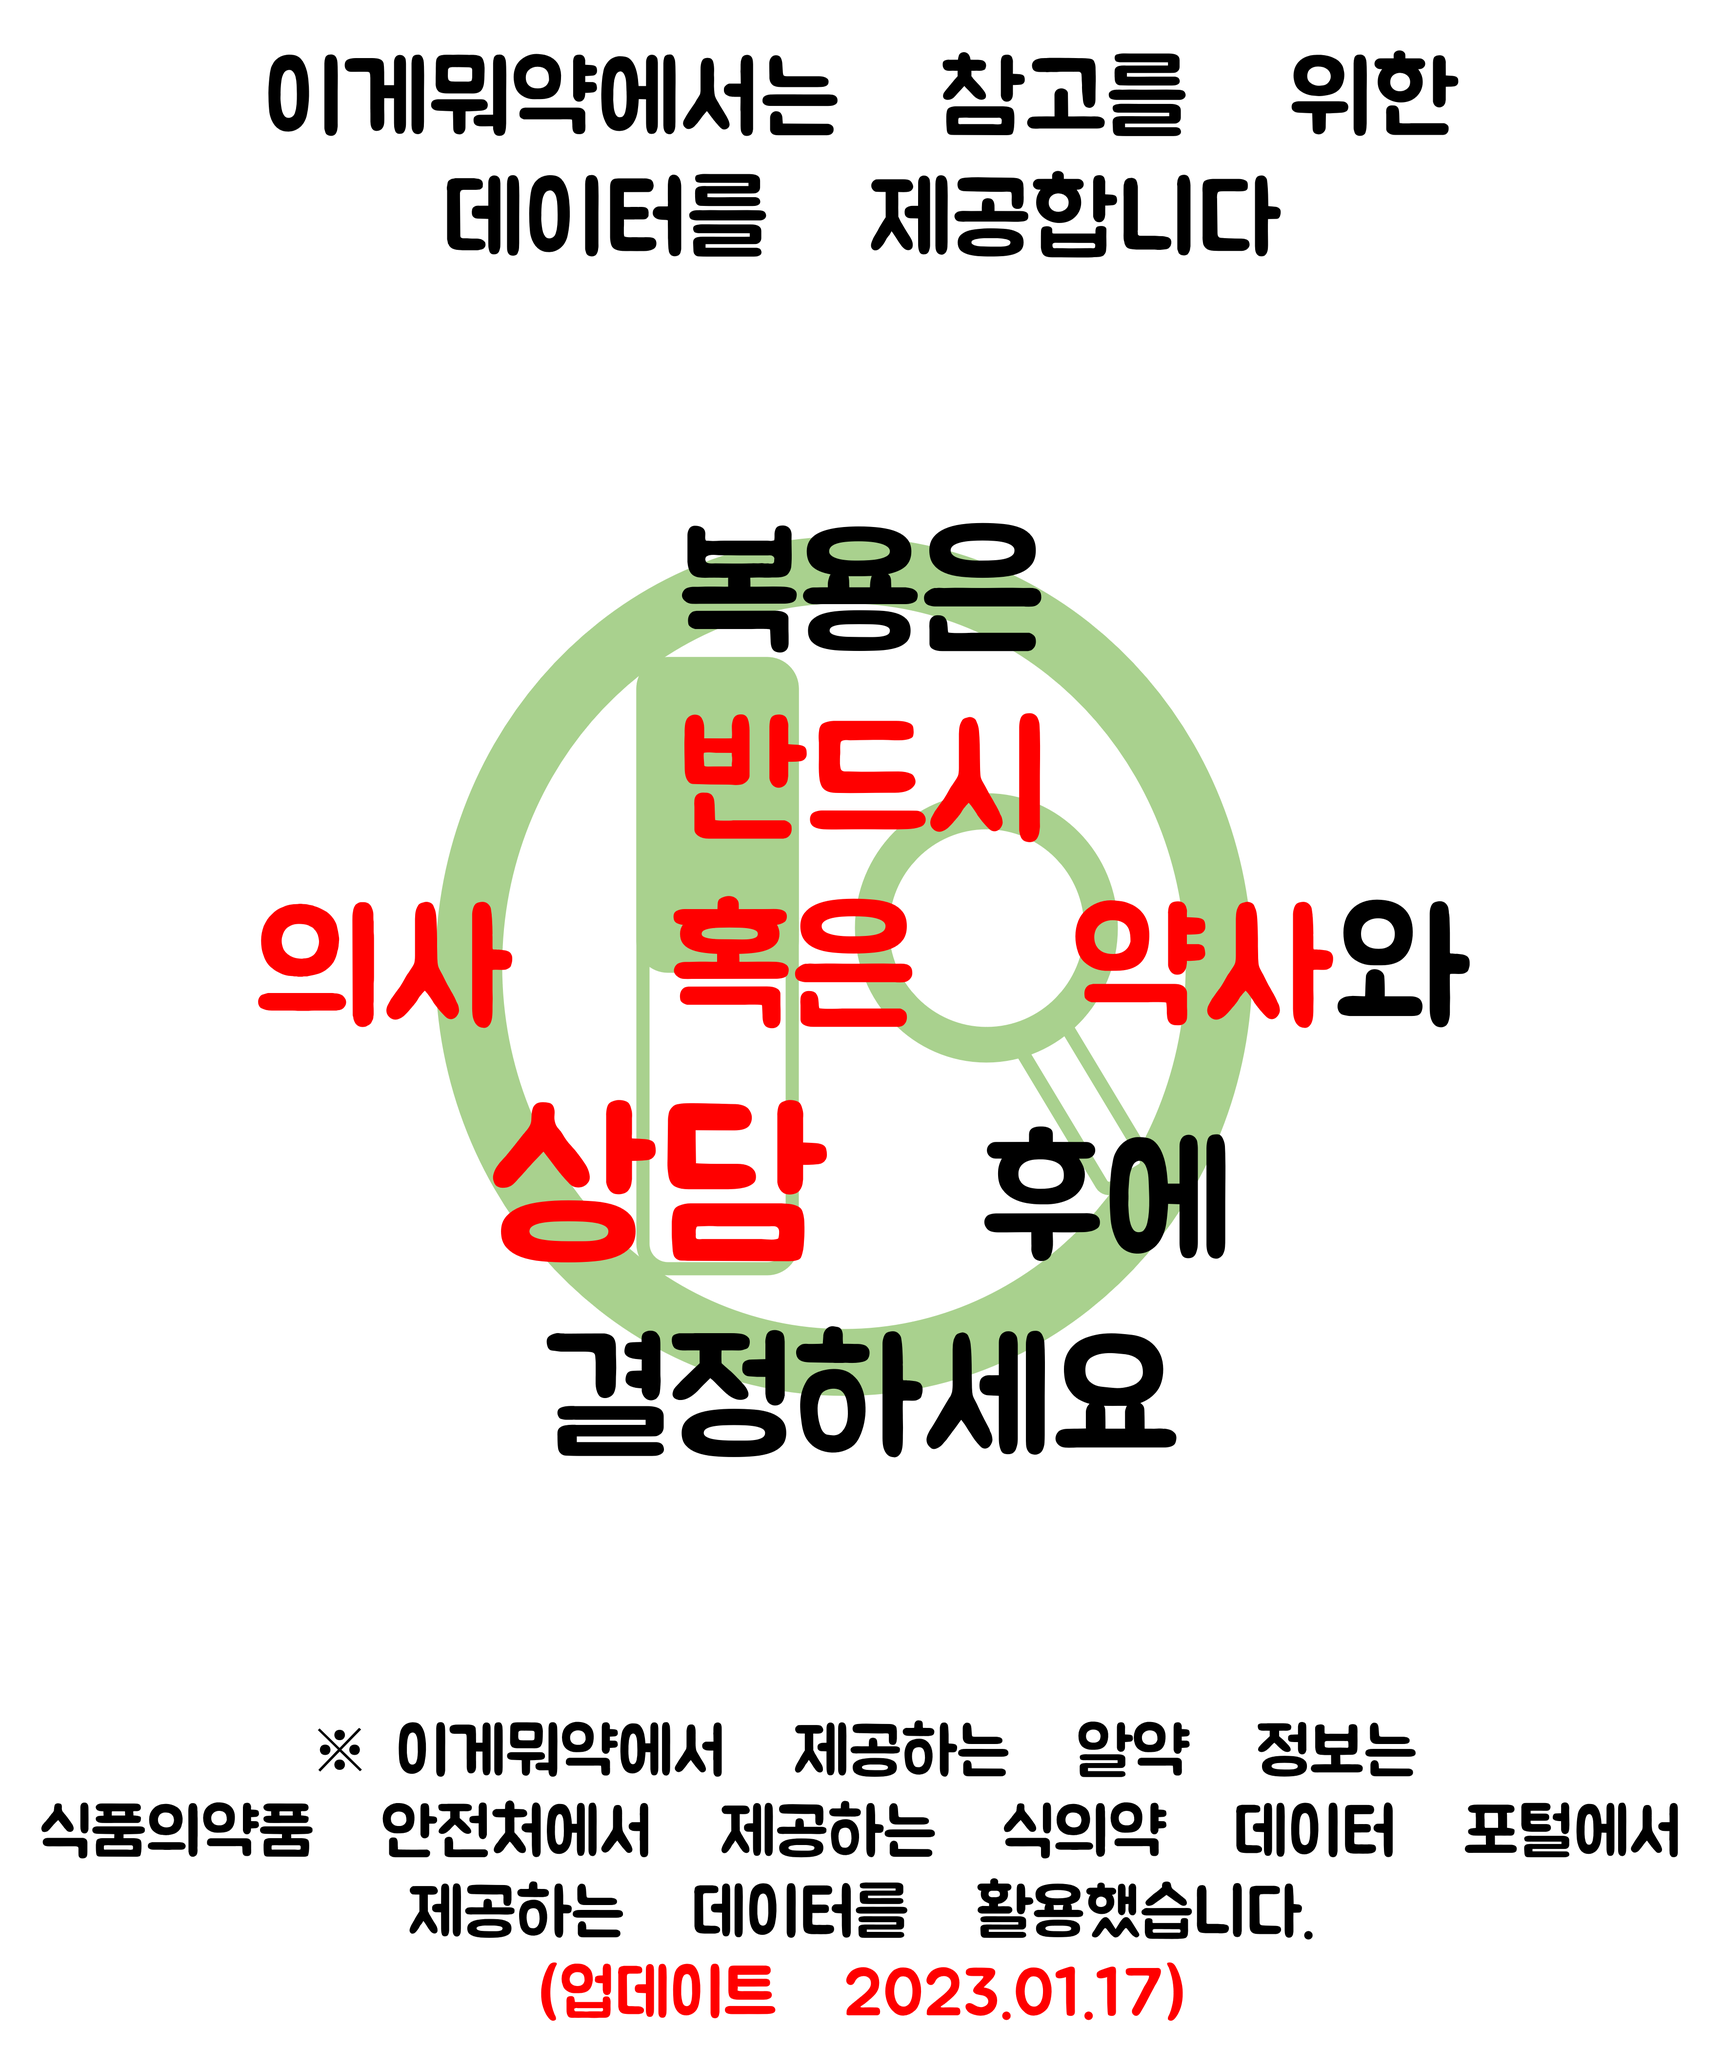
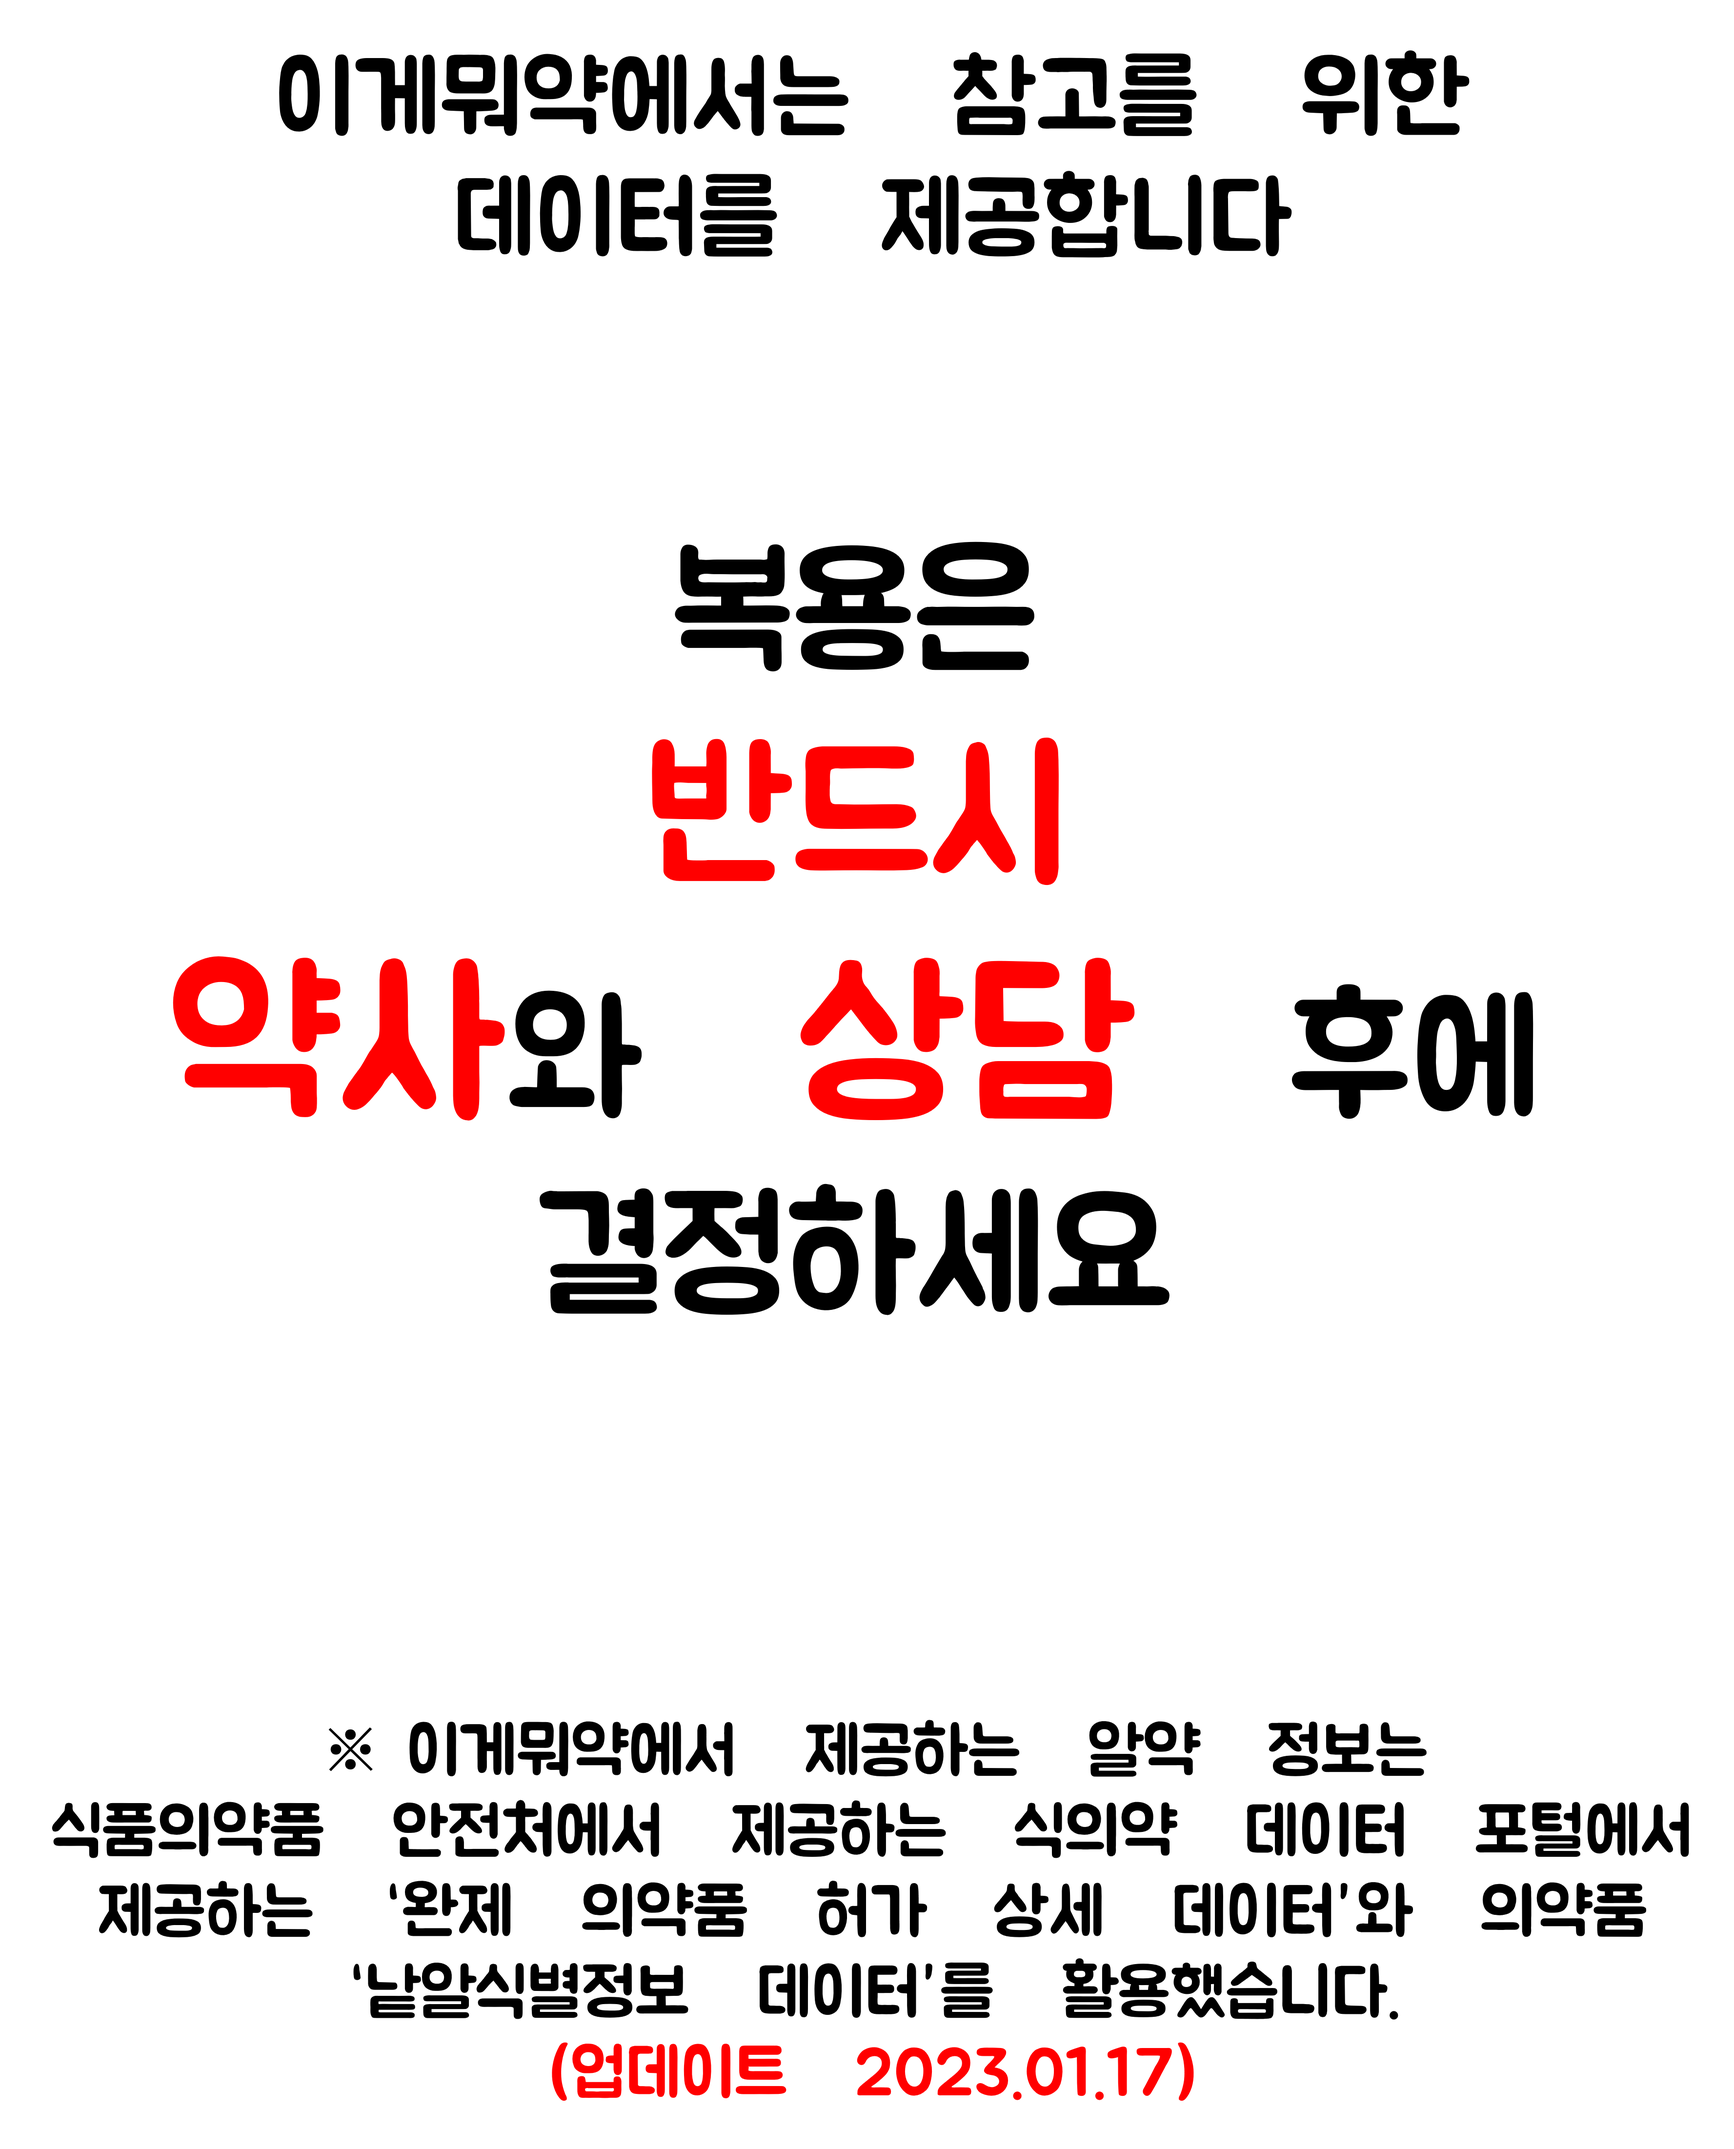
230314 약관 업데이트 및 검색 경고 화면 수정

diff --git a/src/components/terms_of_service.js b/src/components/terms_of_service.js
@@ -22,15 +22,30 @@ const Header = props => {
 const misuseText = () => {
   return (
     <Text style={styles.text}>
-      본 서비스는 아직 개발 중인 서비스로, 알약 검색 기능을 통해 얻은 정보가
-      부정확할 수 있습니다.
-      {'\n\n'}
-      <Text style={styles.textHilight}>
-        이에 따라 본 서비스를 통해 약물 복용을 결정하는 것은 절대 금하며, 반드시
-        의사 혹은 약사와의 상담을 통해 복용을 결정하는 것을 권장합니다.{'\n\n'}
-      </Text>
-      약관의 내용을 이해 했으며, 약물 오남용과 관련된 사항들은 사용자의 책임임을
-      동의합니다.
+      목적{'\n'}이 약관은 이게뭐약 애플리케이션의 서비스 이용 및 제공에 관한
+      제반 사항의 규정을 목적으로 합니다{'\n\n\n'}
+      개인정보 활용 고지{'\n'}
+      서비스 이용과정에서 아래와 같은 정보들이 자동으로 생성되어 수집될 수
+      있습니다.{'\n'}- 이미지 검색: 검색 형식, 검색한 이미지 데이터, 검색 날짜
+      {'\n'}- 식별 검색 및 상세 정보 검색: 검색 형식, 검색 날짜{'\n\n\n'}
+      개인정보의 수집 방법{'\n'}: 이게뭐약은 정보 제공자로서, 검색 시 발생하는
+      데이터 (검색 형식, 이미지 데이터, 검색 날짜)를 수집합니다.{'\n\n\n'}
+      수집한 개인정보의 이용{'\n'}: 이게뭐약은 수집된 데이터를 통해 검색 정확도
+      및 서비스 개선을 위해 활용합니다.{'\n\n\n'}
+      책임의 한계 및 법적 고지{'\n'}: 이게뭐약은 이게뭐약은 식의약 데이터 포털의
+      "완제 의약품 허가 상세 데이터"와 "의약품 낱알식별정보 데이터"를 기반으로
+      검색지원의 목적을 가진 정보를 제공합니다.{'\n'}
+      이게뭐약은 정보의 정확성을 위해 노력하고 있으나, 정보의 정확성 및 신뢰성,
+      적법성에 대해 어떠한 보증도 하지 않으며 편집상의 오류, 허가사항 변경,
+      추가적인 학술연구 또는 임상연구 발표등으로 인해 발생하는 문제에 대해
+      이게뭐약은 책임지지 않습니다.{'\n'}
+      이게뭐약은 정보를 수정할 의무를 지지 않으나 필요에 따라 개선할 수
+      있습니다.{'\n'}
+      이게뭐약은 "검색 지원 서비스"로서 서비스 및 정보와 관련하여 직접, 간접,
+      부수적, 징벌적, 파생적인 손해에 관해서 책임을 지지 않습니다.{'\n'}
+      이게뭐약은 "구체적인 약의 정보 및 복용"에 대해서는 약사에게 확인할 것을
+      사용자에게 고지하고 있으며, 이를 사용자가 확인하지 않아 발생한 오용에
+      대해서는 이게뭐약은 책임을 지지 않습니다.
     </Text>
   );
 };
@@ -78,7 +93,7 @@ const styles = StyleSheet.create({
   },
   text: {
     padding: '10%',
-    fontSize: RFValue(25, 720),
+    fontSize: RFValue(15, 720),
     fontWeight: 'bold',
   },
   textHilight: {color: 'red'},
